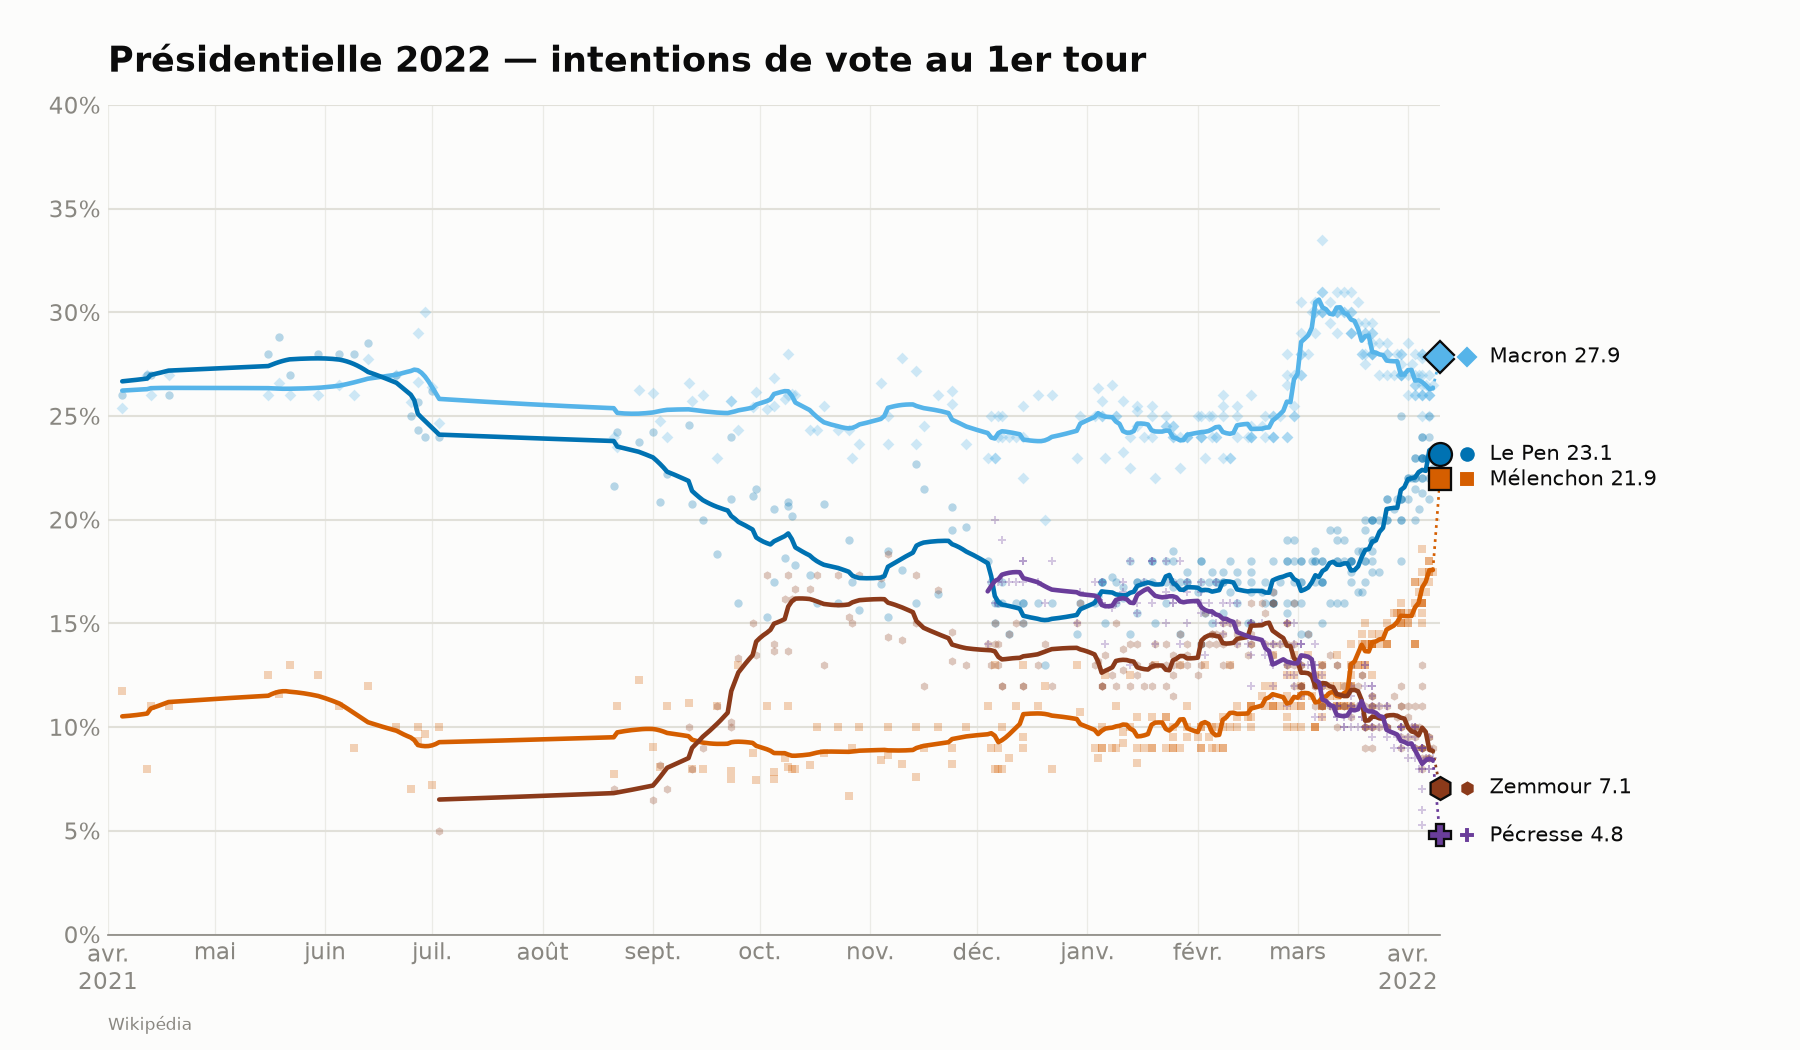
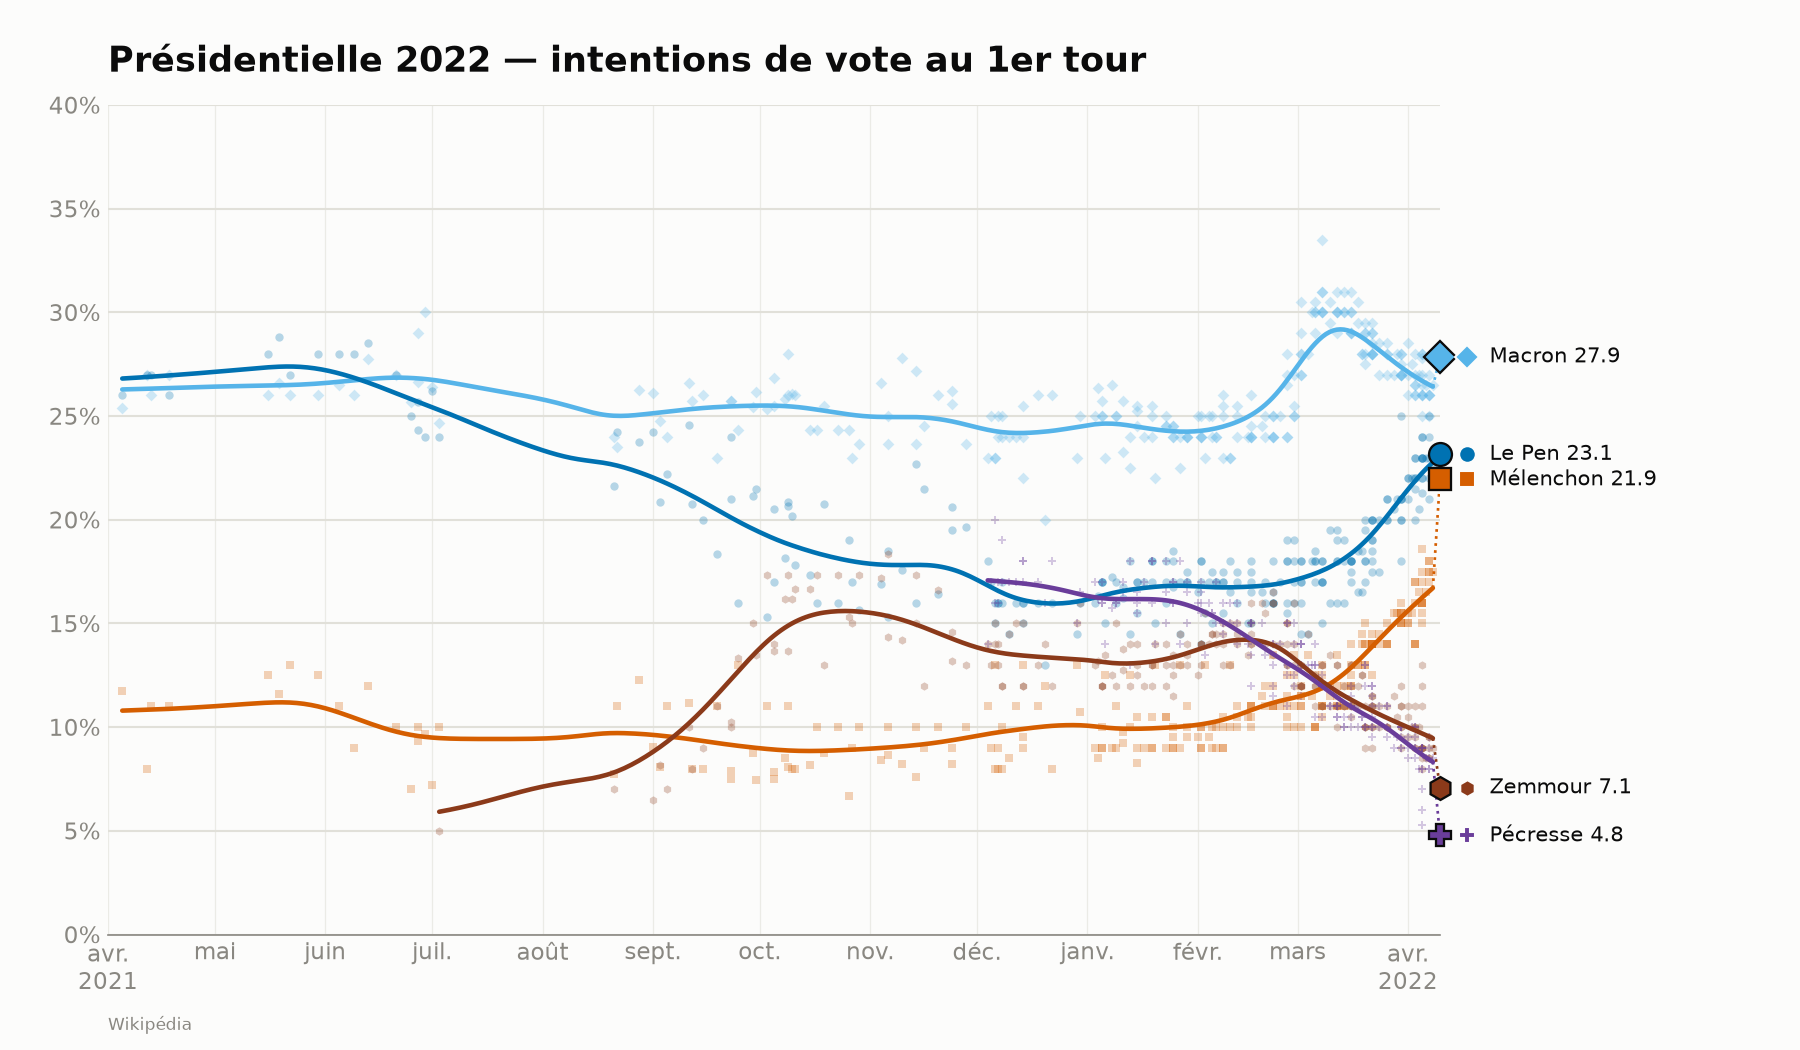
revue du moyennage

diff --git a/Sondpres/sondages_2027.py b/Sondpres/sondages_2027.py
@@ -15,14 +15,16 @@ Trois élections sont suivies :
 Un même parti garde la même couleur/le même marqueur d'une élection à
 l'autre (ex. Macron 2017/2022 et Attal 2027 partagent la couleur « RE »).
 
-Le lissage se fait en distance de sondage (pas en distance calendaire) :
-chaque sondage d'un candidat est numéroté dans l'ordre (0, 1, 2, ...), et la
-courbe est une moyenne à noyau gaussien centrée sur ce rang, pas sur le jour.
-Deux sondages publiés à trois jours d'écart pèsent donc l'un sur l'autre
-autant que deux sondages publiés à trois semaines d'écart. La courbe reste
-néanmoins continue et sans à-coups (elle est évaluée sur une grille fine de
-jours, comme un lissage classique), car le noyau gaussien fait entrer et
-sortir chaque sondage progressivement plutôt que par à-coups.
+Le lissage est une moyenne à noyau gaussien en jours, dont la largeur de
+fenêtre n'est pas fixe mais pilotée par le NOMBRE de sondages disponibles :
+elle s'ajuste en continu pour couvrir toujours à peu près le même nombre de
+sondages (voir `local_bandwidth`). Une période dense donne donc une courbe
+réactive, une période creuse une courbe prudente — sans qu'une salve de
+sondages publiés le même jour ne fasse décrocher la courbe à la verticale.
+Le noyau est de plus asymétrique : à chaque point de la courbe, les sondages
+postérieurs pèsent davantage que les sondages antérieurs, si bien que la
+courbe suit l'information la plus fraîche et que son extrémité droite reflète
+les derniers sondages plutôt qu'une moyenne en retard sur eux.
 
 Tous les graphiques démarrent en avril de l'année précédant l'élection.
 
@@ -49,6 +51,7 @@ from dataclasses import dataclass, field
 from datetime import date, datetime
 
 import matplotlib
+import numpy as np
 import pandas as pd
 import requests
 import lxml.html as LH
@@ -58,7 +61,21 @@ import lxml.html as LH
 # ---------------------------------------------------------------------------
 API_URL = "https://fr.wikipedia.org/w/api.php"
 USER_AGENT = "sondages-2027-chart/1.0 (script pédagogique)"
-RANK_BANDWIDTH = 2.2   # écart-type du noyau de lissage, en RANGS de sondage (pas en jours)
+# Réglages du lissage (cf. section 3). La fenêtre du noyau est exprimée en
+# jours, mais sa largeur est recalculée en chaque point pour englober à peu
+# près POLLS_PER_WINDOW sondages : c'est le nombre de sondages, et non le
+# calendrier, qui décide du degré de lissage.
+POLLS_PER_WINDOW = 6.0    # nombre de sondages visé dans une demi-fenêtre (~1 écart-type)
+BW_MIN_DAYS      = 6.0    # plancher : même en pleine avalanche de sondages, la courbe
+                          # ne devient pas verticale
+BW_MAX_DAYS      = 40.0   # plafond : dans un désert de sondages, on n'élargit pas à l'infini
+DENSITY_SPAN     = 21.0   # jours : échelle d'estimation de la densité de sondages
+RECENCY_SKEW     = 1.25   # >1 : à chaque point, les sondages postérieurs pèsent plus que
+                          # les antérieurs (rapport des écarts-types = SKEW²)
+EDGE_TRUST       = 8.0    # nombre effectif de sondages à partir duquel on croit à moitié
+                          # à la pente locale (correction de bord, cf. poll_smooth)
+EDGE_RIDGE       = 0.25   # amortit la pente locale quand les sondages de la fenêtre sont
+                          # trop resserrés dans le temps pour en estimer une (en unités de fenêtre)
 
 # Couleur + marqueur par PARTI (pas par candidat) : un même parti garde le
 # même code visuel d'une élection à l'autre — ex. Macron 2017/2022 et Attal
@@ -435,34 +452,96 @@ def extract_polls(html: str, config: ElectionConfig) -> tuple[pd.DataFrame, dict
 
 
 # ---------------------------------------------------------------------------
-# 3. Lissage (noyau gaussien en rang de sondage, pas en jours)
+# 3. Lissage : noyau gaussien en jours, fenêtre pilotée par le nombre de sondages
 # ---------------------------------------------------------------------------
-def poll_rank_smooth(dates_num, values, grid, bw: float = RANK_BANDWIDTH):
-    """Lissage à noyau gaussien où la distance utilisée est un RANG de
-    sondage (0, 1, 2, ... dans l'ordre chronologique du candidat), pas un
-    nombre de jours : deux sondages à trois jours d'écart pèsent l'un sur
-    l'autre exactement comme deux sondages à trois semaines d'écart.
+def poll_density(grid, dates_num, span: float = DENSITY_SPAN):
+    """Densité locale de sondages, en sondages par jour, au fil du calendrier.
 
-    `grid` (mêmes unités que `dates_num`, typiquement une grille de jours)
-    est d'abord converti en un rang continu par interpolation linéaire entre
-    les rangs entiers des sondages voisins, ce qui permet d'évaluer une
-    courbe lisse jour par jour tout en gardant un poids basé sur le nombre
-    de sondages. Le noyau (contrairement à une fenêtre dure comme une
-    moyenne mobile) fait entrer/sortir chaque sondage progressivement : un
-    nouveau sondage ne peut donc pas faire sauter la courbe d'un coup, il la
-    déplace en douceur, proportionnellement à sa proximité de rang.
+    Estimée par noyau gaussien large (`span`) : c'est une fonction lisse et
+    infiniment dérivable du temps, qui ne fait pas la différence entre six
+    sondages publiés le même jour et six sondages étalés sur la semaine. Ce
+    lissage-là est indispensable : c'est lui qui empêche une salve de
+    sondages simultanés de faire décrocher la courbe à la verticale.
     """
-    import numpy as np
+    z = (np.asarray(grid, float)[:, None] - np.asarray(dates_num, float)[None, :]) / span
+    return np.exp(-0.5 * z * z).sum(axis=1) / (span * np.sqrt(2 * np.pi))
+
+
+def local_bandwidth(grid, dates_num):
+    """Largeur du noyau (écart-type, en jours) en chaque point de `grid`.
+
+    C'est ici que « lisser en fonction du nombre de sondages » se joue : on
+    vise une fenêtre contenant POLLS_PER_WINDOW sondages, donc une largeur
+    ~ POLLS_PER_WINDOW / densité. Quand les sondages s'enchaînent, la fenêtre
+    se resserre et la courbe devient réactive ; quand ils se raréfient, elle
+    s'élargit et la courbe cesse de sur-réagir à un sondage isolé.
+
+    Plutôt qu'un `clip` entre plancher et plafond — qui introduirait un angle
+    à chaque fois qu'on touche une borne — la formule sature en douceur : elle
+    vaut BW_MAX_DAYS quand la densité est nulle, tend vers BW_MIN_DAYS quand
+    elle explose, et reste dérivable partout entre les deux.
+    """
+    amplitude = BW_MAX_DAYS - BW_MIN_DAYS
+    dens = poll_density(grid, dates_num)
+    return BW_MIN_DAYS + amplitude / (1.0 + amplitude * dens / POLLS_PER_WINDOW)
+
+
+def poll_smooth(dates_num, values, grid):
+    """Régression linéaire locale à noyau gaussien asymétrique, sur `grid`.
+
+    Trois ingrédients : le lissage, la fraîcheur, et le traitement des bords.
+
+    1. la largeur du noyau vient de `local_bandwidth` : elle suit le nombre
+       de sondages disponibles autour du point évalué, pas le calendrier ;
+    2. le noyau est dissymétrique autour de ce point — écart-type multiplié
+       par RECENCY_SKEW du côté du futur, divisé par RECENCY_SKEW du côté du
+       passé. À distance égale, un sondage plus récent pèse donc plus lourd
+       qu'un sondage plus ancien, et la courbe suit l'information fraîche
+       plutôt que de la diluer dans l'historique ;
+    3. la moyenne pondérée n'est pas prise telle quelle : on ajuste une
+       DROITE locale (moyenne + pente) et on lit sa valeur au point évalué.
+       Au milieu de la courbe cela ne change rien — la fenêtre y est
+       équilibrée, la correction `pente x décalage` est nulle. Aux deux bouts
+       en revanche, la fenêtre est amputée d'un côté : une moyenne nue y
+       serait tirée vers l'intérieur de la période (une courbe qui monte
+       démarrerait trop haut et finirait trop bas). La droite locale, elle,
+       prolonge la tendance jusqu'au bord, si bien que le dernier point de la
+       courbe — celui qui porte l'étiquette du candidat — reflète vraiment
+       les derniers sondages au lieu de rester en retard sur eux.
+       Cette correction n'est appliquée qu'à hauteur de ce que les données
+       permettent d'affirmer : quand la fenêtre ne contient qu'une poignée de
+       sondages, la pente qu'on y mesure est surtout du bruit, et l'extrapoler
+       jusqu'au bord ne ferait que l'amplifier. Elle est donc pondérée par le
+       nombre EFFECTIF de sondages de la fenêtre (cf. EDGE_TRUST) : pleine sur
+       une période richement sondée, effacée sur une période creuse, où la
+       courbe retombe alors sur la simple moyenne locale.
+
+    Le noyau étant gaussien de part et d'autre (dérivée nulle en son centre)
+    et la largeur variant continûment, la courbe obtenue est lisse : aucun
+    sondage n'entre ni ne sort de la moyenne par à-coups.
+    """
     dates_num = np.asarray(dates_num, float)
     values = np.asarray(values, float)
     grid = np.asarray(grid, float)
-    ranks = np.arange(len(dates_num), dtype=float)
-    grid_ranks = np.interp(grid, dates_num, ranks)
-    out = np.empty(grid.shape)
-    for i, r in enumerate(grid_ranks):
-        w = np.exp(-0.5 * ((r - ranks) / bw) ** 2)
-        out[i] = np.dot(w, values) / w.sum()
-    return out
+
+    h = local_bandwidth(grid, dates_num)
+    delta = dates_num[None, :] - grid[:, None]   # > 0 : sondage postérieur au point évalué
+    sigma = np.where(delta > 0.0, h[:, None] * RECENCY_SKEW, h[:, None] / RECENCY_SKEW)
+    w = np.exp(-0.5 * (delta / sigma) ** 2)
+
+    total = w.sum(axis=1)
+    mean_d = (w * delta).sum(axis=1) / total          # décalage moyen de la fenêtre, en jours
+    mean_v = (w * values).sum(axis=1) / total         # moyenne locale (avant correction de bord)
+    var_d = (w * delta * delta).sum(axis=1) / total - mean_d ** 2
+    cov_dv = (w * delta * values).sum(axis=1) / total - mean_d * mean_v
+    # le terme de ridge évite une pente aberrante là où tous les sondages de
+    # la fenêtre sont quasi simultanés (var_d ~ 0) : la pente y est ramenée
+    # vers zéro, donc l'estimation vers la simple moyenne locale.
+    slope = cov_dv / (var_d + (EDGE_RIDGE * h) ** 2)
+    # nombre effectif de sondages sous le noyau (n si tous pesaient pareil) :
+    # mesure de la quantité d'information dont la pente locale est tirée.
+    n_eff = total ** 2 / (w * w).sum(axis=1)
+    return mean_v - n_eff / (n_eff + EDGE_TRUST) * slope * mean_d
 
 
 # ---------------------------------------------------------------------------
@@ -470,7 +549,6 @@ def poll_rank_smooth(dates_num, values, grid, bw: float = RANK_BANDWIDTH):
 # ---------------------------------------------------------------------------
 def make_chart(df: pd.DataFrame, config: ElectionConfig, final_results: dict,
                revision: str, outfile: str, show: bool):
-    import numpy as np
     import matplotlib.pyplot as plt
     import matplotlib.dates as mdates
     import matplotlib.ticker as mticker
@@ -513,12 +591,12 @@ def make_chart(df: pd.DataFrame, config: ElectionConfig, final_results: dict,
                    linewidths=0, zorder=2)
 
         # courbe lissée, continue, restreinte à l'étendue des données du
-        # candidat : noyau gaussien en rang de sondage (cf. poll_rank_smooth)
+        # candidat : noyau gaussien à fenêtre adaptative (cf. poll_smooth)
         gmask = (grid >= d.min()) & (grid <= d.max())
         gg = grid[gmask]
         if gg.size == 0:
             continue
-        sm = poll_rank_smooth(d, y, gg)
+        sm = poll_smooth(d, y, gg)
         ax.plot(gg, sm, color=color, lw=2.2, zorder=3, solid_capstyle="round")
 
         final_v = final_results.get(name)
